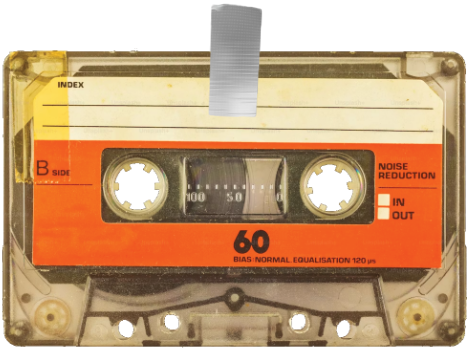
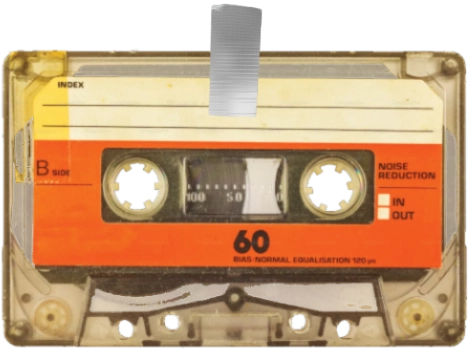
v4.1.0

diff --git a/scripts/utils/creation-utils.js b/scripts/utils/creation-utils.js
@@ -3,6 +3,27 @@ import { InvestigationBoardState } from "../state.js";
 import { getActorDisplayName } from "./helpers.js";
 import { collaborativeCreate } from "./socket-handler.js";
 
+/**
+ * Internal helper to find a random cassette image from assets
+ */
+async function _getRandomCassetteImage() {
+  let imagePath = "modules/investigation-board/assets/cassette1.webp"; // Default fallback
+  try {
+    const folder = "modules/investigation-board/assets/";
+    const browse = await FilePicker.browse("data", folder);
+    const cassettes = browse.files.filter(f => {
+      const filename = f.split("/").pop();
+      return filename.startsWith("cassette") && f.endsWith(".webp");
+    });
+    if (cassettes.length > 0) {
+      imagePath = cassettes[Math.floor(Math.random() * cassettes.length)];
+    }
+  } catch (err) {
+    console.warn("Investigation Board: Could not browse assets folder for cassettes", err);
+  }
+  return imagePath;
+}
+
 export async function createNote(noteType) {
   const scene = canvas.scene;
   if (!scene) {
@@ -57,9 +78,7 @@ export async function createNote(noteType) {
 
   // Set default image and audio for media notes
   if (noteType === "media") {
-    const cassettes = ["cassette1.webp", "cassette2.webp"];
-    const randomCassette = cassettes[Math.floor(Math.random() * cassettes.length)];
-    extraFlags.image = `modules/investigation-board/assets/${randomCassette}`;
+    extraFlags.image = await _getRandomCassetteImage();
     extraFlags.audioPath = "";
   }
 
@@ -339,9 +358,7 @@ export async function createMediaNoteFromSound(sound) {
   const x = dims.width / 2;
   const y = dims.height / 2;
 
-  const cassettes = ["cassette1.webp", "cassette2.webp"];
-  const randomCassette = cassettes[Math.floor(Math.random() * cassettes.length)];
-  const imagePath = `modules/investigation-board/assets/${randomCassette}`;
+  const imagePath = await _getRandomCassetteImage();
 
   const created = await collaborativeCreate({
     type: "r",

diff --git a/scripts/main.js b/scripts/main.js
@@ -252,6 +252,41 @@ Hooks.once("init", () => {
 // Hook to initialize socket for collaborative editing
 Hooks.once("ready", () => {
   initSocket();
+
+  // Show setup warning to GM if enabled
+  if (game.user.isGM && game.settings.get(MODULE_ID, "showSetupWarning")) {
+    const drawingPerm = game.permissions.DRAWING_CREATE.includes(1); // PLAYER role
+    const filePerm = game.permissions.FILES_BROWSE.includes(1); // PLAYER role
+    
+    if (!drawingPerm || !filePerm) {
+      const { DialogV2 } = foundry.applications.api;
+      new DialogV2({
+        window: { title: "Investigation Board: Setup Recommended" },
+        content: `
+          <p>To allow <strong>Players</strong> to fully use the Investigation Board, consider updating these World Permissions in <b>Game Settings >> User Management >> Configure Permissions</b>:</p>
+          <ul>
+            <li><strong>Use Drawing Tools</strong>: ${drawingPerm ? "✅ Enabled" : "❌ Disabled (Needed to create/manipulate notes and connections)"}</li>
+            <li><strong>Upload Files</strong>: ${filePerm ? "✅ Enabled" : "❌ Disabled (Needed to create Photo and Handout notes with images)"}</li>
+          </ul>
+          <p style="color: #882222; font-style: italic;"><strong>Security Note:</strong> Enabling 'Upload Files' for players gives them access to your server's file system through the File Picker. Be careful with who you let access your files!</p>
+          <hr>
+        `,
+        buttons: [
+          {
+            action: "ok",
+            label: "Understood",
+            icon: "fas fa-check"
+          },
+          {
+            action: "disable",
+            label: "Don't show again",
+            icon: "fas fa-times",
+            callback: (event, button, dialog) => game.settings.set(MODULE_ID, "showSetupWarning", false)
+          }
+        ]
+      }).render(true);
+    }
+  }
 });
 
 // Hook to ensure newly created notes are interactive in Investigation Board mode

diff --git a/scripts/settings.js b/scripts/settings.js
@@ -214,4 +214,13 @@ export const registerSettings = function() {
             "Arial": { sticky: 200, photo: 30, index: 650 }
         }
     });
+
+    game.settings.register(MODULE_ID, "showSetupWarning", {
+        name: "Show Setup Warning",
+        hint: "Whether to show the setup warning for GMs about player permissions.",
+        scope: "world",
+        config: true,
+        type: Boolean,
+        default: true
+    });
 };
